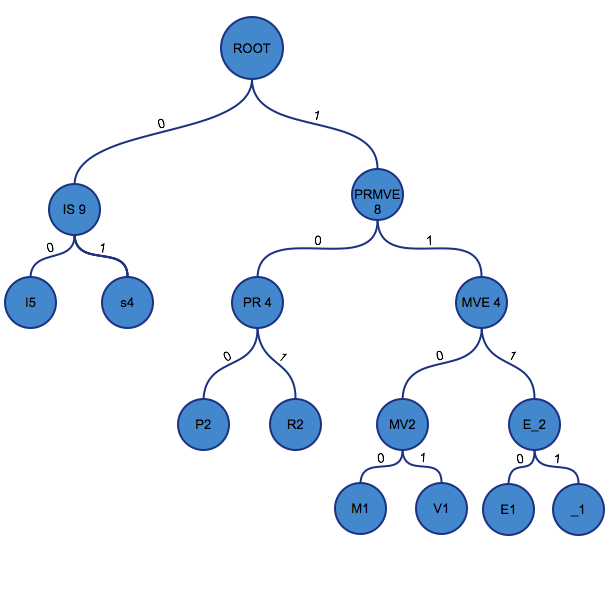
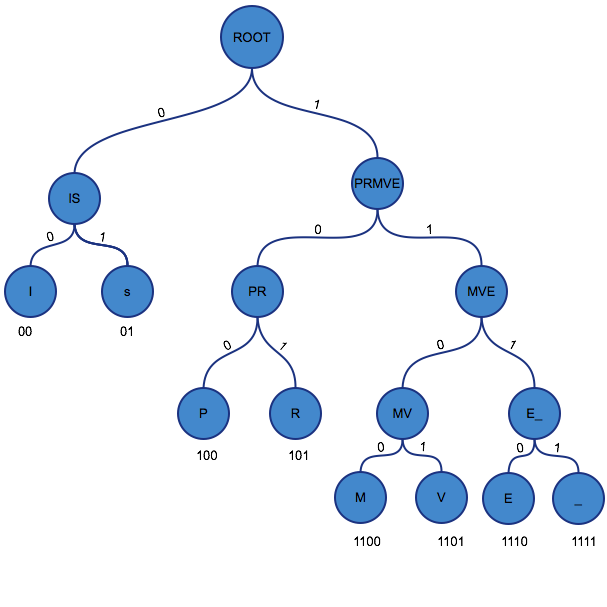
Modify the tree for huffman and corrected some issue with the table

Changed region(s): [[0.0, 0.0, 1.0, 0.9193], [0.089, 0.4745, 0.1186, 0.5041]]

diff --git a/presetn.html b/presetn.html
@@ -112,7 +112,7 @@
             </tr>
             <tr class="substep">
               <td>'i'</td>
-              <td>1</td>
+              <td>5</td>
             </tr>
             <tr class="substep">
               <td>'s'</td>
@@ -141,7 +141,21 @@
           </table>
         </div>
         <div class="step slide opacity" data-x="3000" data-y="180" data-rotate-y="180" data-z="-16500" >
-          <img src="img/HUFFMAN.png" class="imgCenter" alt="">
+        <div class="model">
+          <img src="img/HUFFMAN.png" width="450" height="500" class="imgCenter" alt="">
+        </div>
+        <div class="model">
+          <h1>"Mississippi river"</h1>
+
+          1100 00 01 01 00 01 01 00 <br>
+          100 100 00 1111 101 00 <br>
+          1101 1110 101<br>
+
+          136 bit / 46 <br>
+          = 33% <br>
+          = 67% compression ratio <br>
+          
+        </div>
         </div>
         <!-- Lossless Data Compression  -->
         <div class="step slide opacity" data-x="4100" data-y="180"  data-z="-16000" >
